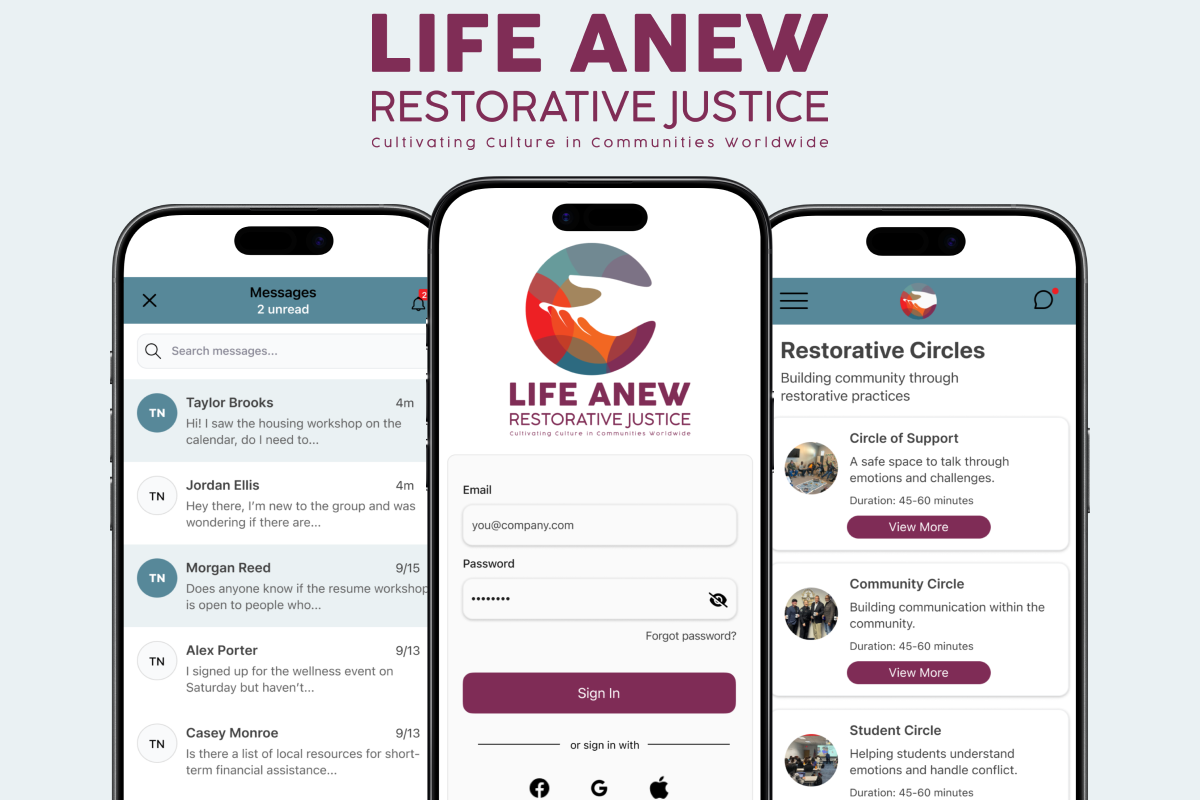
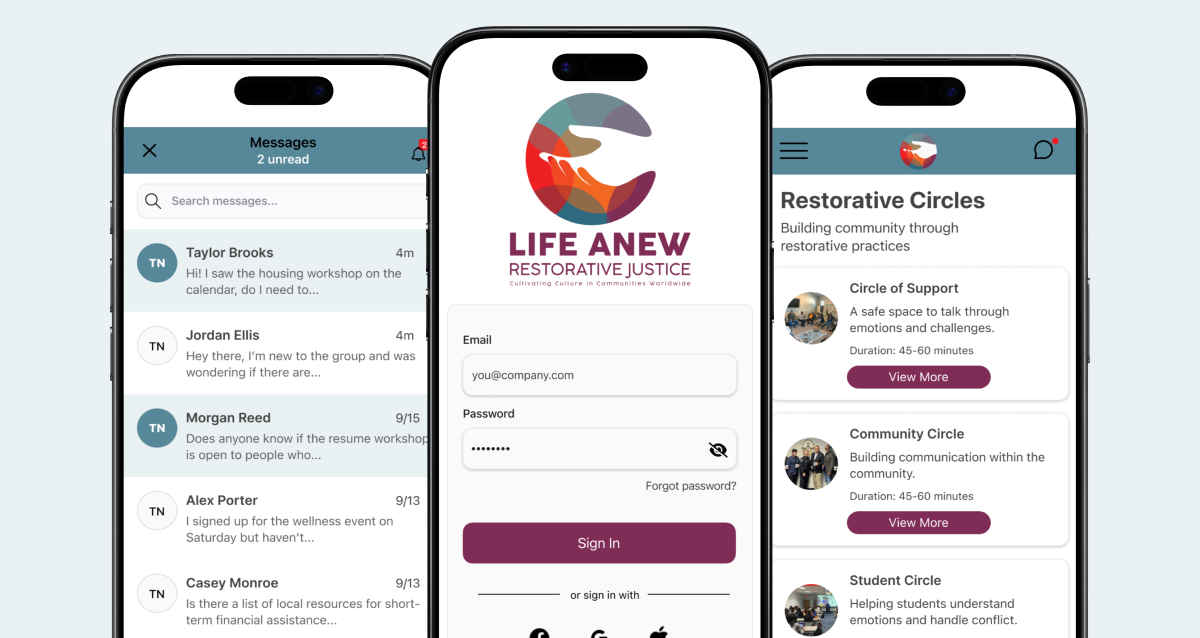
img size
adjusting img sizes

diff --git a/app/projects/life-anew/page.tsx b/app/projects/life-anew/page.tsx
@@ -85,8 +85,8 @@ export default function LifeAnewProject() {
               <Image
                 src="/img/life_anew_behance.png"
                 alt="Life Anew Restorative Justice"
-                width={1400}
-                height={800}
+                width={1200}
+                height={675}
                 className="w-full h-auto"
                 priority
               />
@@ -133,7 +133,7 @@ export default function LifeAnewProject() {
             <Image
               src="/img/lifeanew_mockup_desk.png"
               alt="Life Anew Desk Mockup"
-              width={1400}
+              width={1200}
               height={800}
               className="w-full h-auto rounded-2xl shadow-lg"
             />
